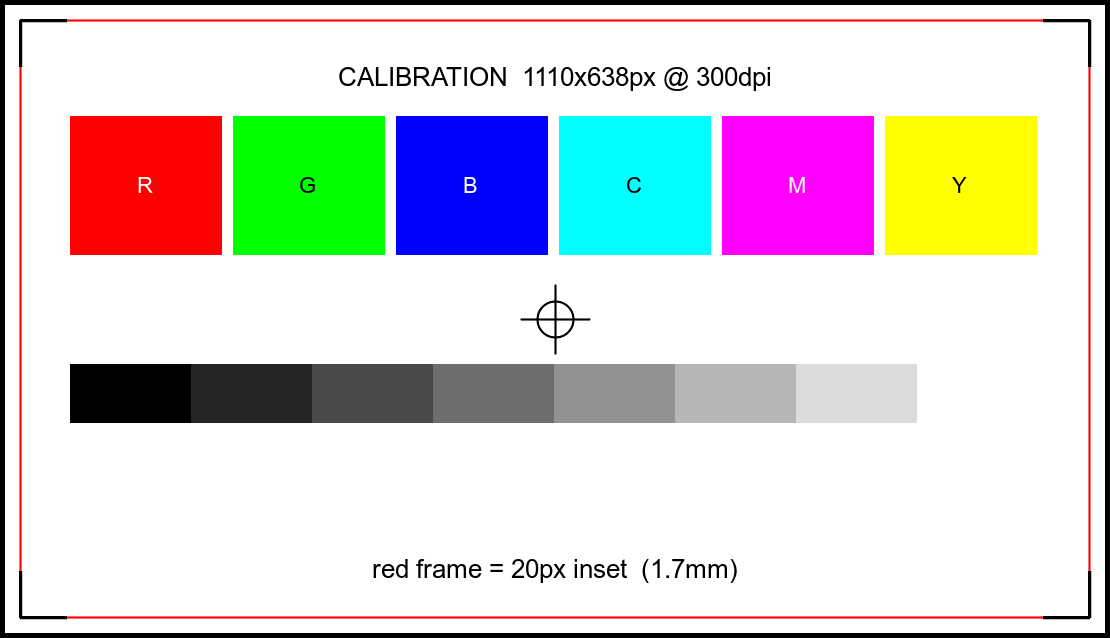
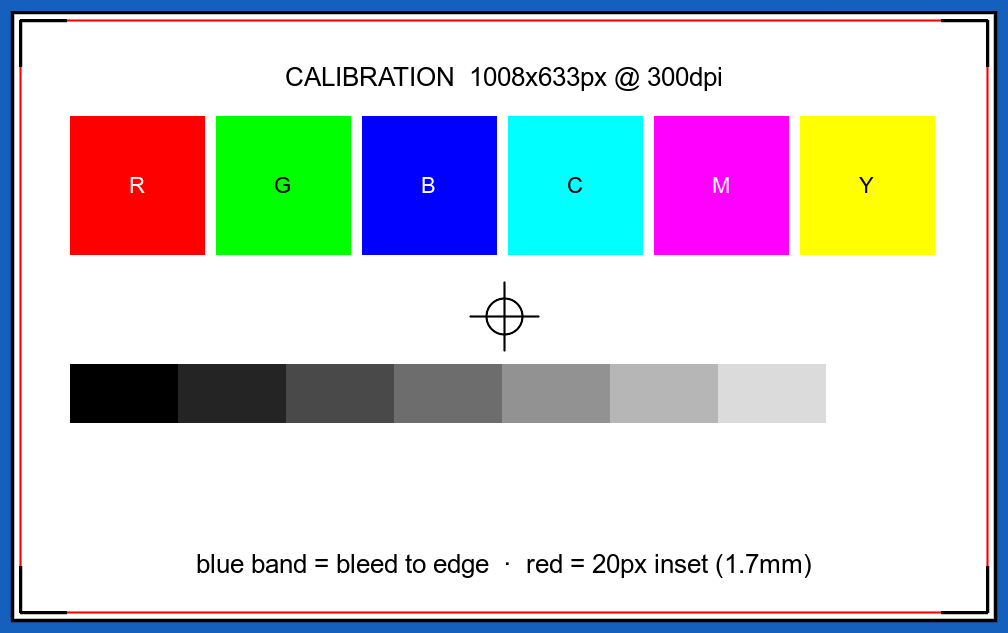
Add edge bleed: overscan real prints + full-bleed calibration test
The driver has no over-the-edge mode and CUPS tiles anything larger than
one page, so true off-card bleed is impossible here. Instead:
- BLEED_PERCENT (default 2%) overscans cover/stretch art past the canvas
  edge (clipped by the page) so full-bleed designs leave no white gap.
- The calibration target now paints a full-bleed blue band to pixel 0 so
  you can see which edge the printer falls short on and nudge Lineup.

diff --git a/app/imaging.py b/app/imaging.py
@@ -62,8 +62,12 @@ def build_argv(source: Path, target: Path, adj: Adjustments) -> list[str]:
     """
     magick = config.imagemagick_cmd()
     w, h = config.CANVAS_W, config.CANVAS_H
-    scaled_w = round(w * adj.scale / 100)
-    scaled_h = round(h * adj.scale / 100)
+    # Overscan the art a few % past the card edge (clipped by the canvas) so a
+    # full-bleed design leaves no white gap at the trim. Skipped for letterbox
+    # (contain), where the white border is the whole point.
+    bleed = 1.0 + config.BLEED_PERCENT / 100.0 if adj.fit != "contain" and config.BLEED_PERCENT > 0 else 1.0
+    scaled_w = round(w * adj.scale / 100 * bleed)
+    scaled_h = round(h * adj.scale / 100 * bleed)
     # stretch: force exact dims (distorts). cover: fill the box, overflow is
     # clipped by the composite. contain: fit inside the box, letterboxed.
     flag = {"stretch": "!", "cover": "^", "contain": ""}[adj.fit]
@@ -129,10 +133,17 @@ def build_calibration_argv(target: Path, w: int, h: int, inset: int = 20, labels
     magick = config.imagemagick_cmd()
     cx, cy = w // 2, h // 2
     L = 46  # registration mark arm length
+    edge = 12  # full-bleed colour band width, ~1mm at 300dpi
 
     d: list[str] = ["font-size 22", "text-align center"] if labels else []
-    # Outer frame at the very edge — if the printer clips, this is what vanishes.
-    d += ["fill none stroke black stroke-width 4", f"rectangle 2,2 {w - 3},{h - 3}"]
+    # Full-bleed colour band painted right to pixel 0. On the printed card,
+    # wherever you still see white *outside* this blue band the printer isn't
+    # reaching that edge — nudge Lineup toward the white side. This is the true
+    # edge-to-edge coverage test; ink fills 0..edge, the interior is white.
+    d += ["fill #1560BD stroke none", f"rectangle 0,0 {w - 1},{h - 1}",
+          "fill white stroke none", f"rectangle {edge},{edge} {w - 1 - edge},{h - 1 - edge}"]
+    # Black frame just inside the bleed band — the "safe area" edge.
+    d += ["fill none stroke black stroke-width 3", f"rectangle {edge},{edge} {w - 1 - edge},{h - 1 - edge}"]
     # Red inset frame at a known distance, so lost edge is measurable.
     d += ["stroke red stroke-width 2", f"rectangle {inset},{inset} {w - 1 - inset},{h - 1 - inset}"]
     # Corner L registration marks, just inside the red frame.
@@ -172,7 +183,7 @@ def build_calibration_argv(target: Path, w: int, h: int, inset: int = 20, labels
     if labels:
         d += ["fill black stroke none font-size 26",
               f"text {cx},{inset + 66} 'CALIBRATION  {w}x{h}px @ 300dpi'",
-              f"text {cx},{h - inset - 40} 'red frame = {inset}px inset  ({inset / 300 * 25.4:.1f}mm)'"]
+              f"text {cx},{h - inset - 40} 'blue band = bleed to edge  ·  red = {inset}px inset ({inset / 300 * 25.4:.1f}mm)'"]
 
     return [
         *magick, "-size", f"{w}x{h}", "xc:white",

diff --git a/app/config.py b/app/config.py
@@ -46,6 +46,15 @@ DEFAULT_PRINT_OPTIONS = {
 CANVAS_W = int(os.environ.get("CARDPRINT_CANVAS_W", 1008))
 CANVAS_H = int(os.environ.get("CARDPRINT_CANVAS_H", 633))
 
+# Overscan: scale printed art this % past the card edge (the overflow is clipped
+# by the canvas) so a full-bleed design leaves no white sliver at the trim. This
+# does NOT print beyond the physical card — the driver has no over-the-edge mode
+# and CUPS tiles anything larger than one page onto extra cards — it just
+# guarantees ink is laid across the whole imageable area. ~2% ≈ 0.85 mm of bleed
+# per edge. Only applied to fill fits (cover/stretch), never letterbox (contain).
+# A one-sided white edge that survives this is mechanical: nudge Lineup instead.
+BLEED_PERCENT = float(os.environ.get("CARDPRINT_BLEED_PERCENT", 2))
+
 # Mean luminance below this triggers the too-dark warning. The DTC1250e stalls
 # on high-coverage art without reporting anything back to CUPS.
 DENSITY_WARN_THRESHOLD = float(os.environ.get("CARDPRINT_DENSITY_WARN", 0.32))
